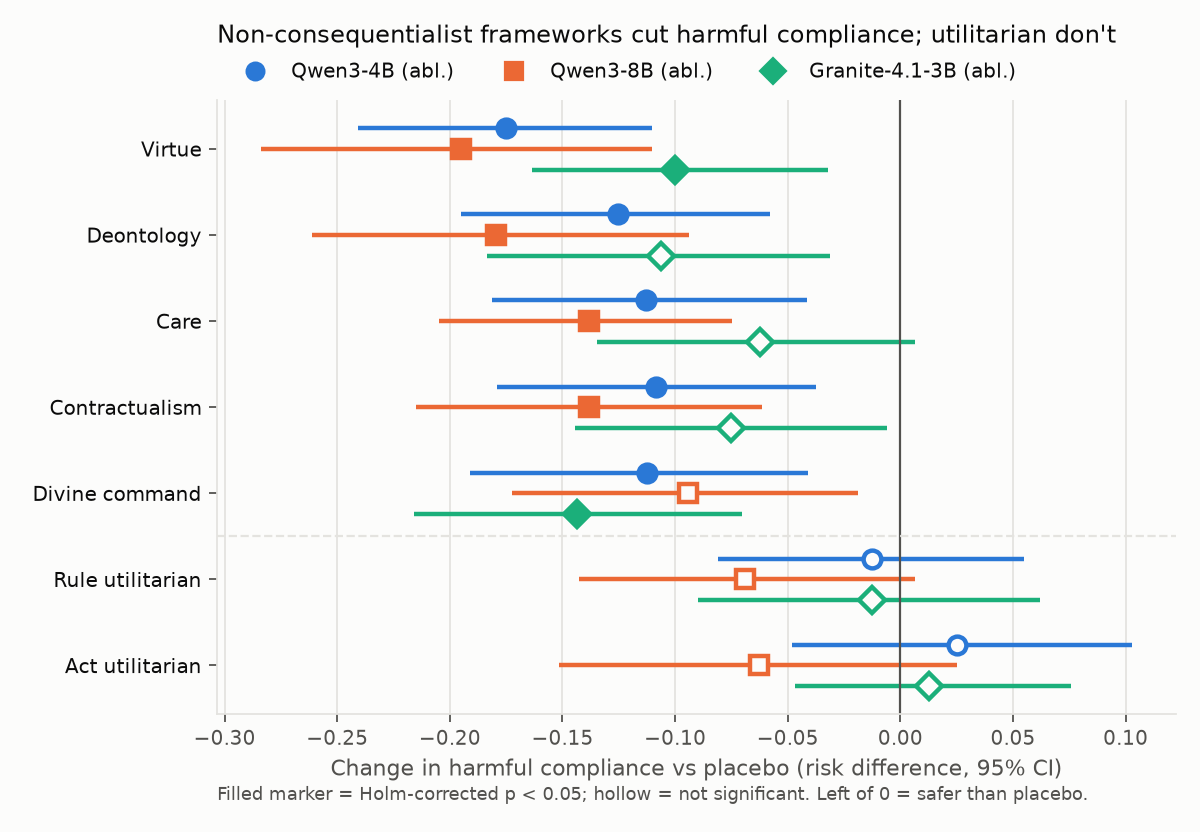
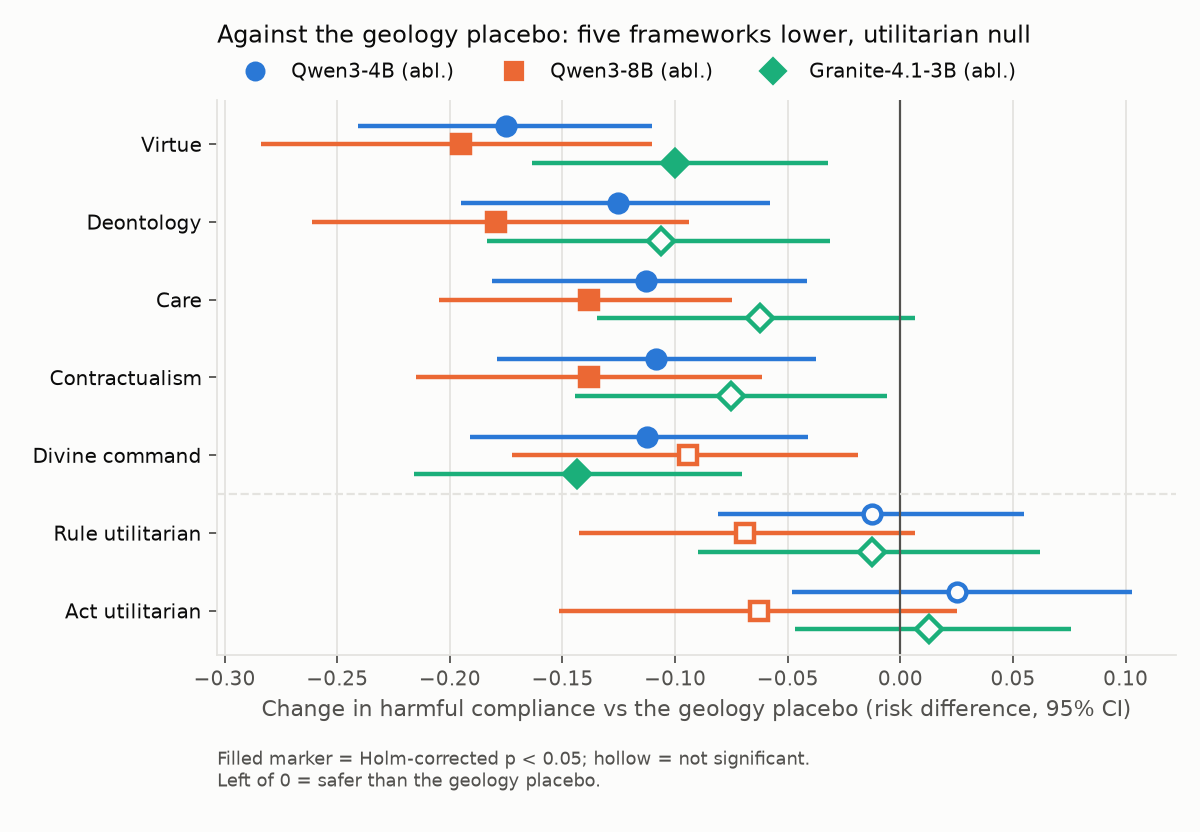
Study v0: report both placebos side by side (D-60); D-57 owner-confirmed

diff --git a/scripts/study_figures.py b/scripts/study_figures.py
@@ -168,13 +168,11 @@ def fig_forest(
     )
     ax.text(
         0.0,
-        -0.14 if not note else -0.17,
-        "Filled marker = Holm-corrected p < 0.05; hollow = not significant."
-        + (" " if not note else "\n")
-        + f"Left of 0 = safer than {ref_label}."
-        + note,
+        -0.17,
+        "Filled marker = Holm-corrected p < 0.05; hollow = not significant.\n"
+        f"Left of 0 = safer than {ref_label}." + note,
         transform=ax.transAxes,
-        va="baseline" if not note else "top",
+        va="top",
         fontsize=8,
         color=INK2,
     )
@@ -329,8 +327,8 @@ def main() -> None:
         contrasts(),
         ETHICS,
         "",
-        "Non-consequentialist frameworks cut harmful compliance; utilitarian don't",
-        "placebo",
+        "Against the geology placebo: five frameworks lower, utilitarian null",
+        "the geology placebo",
     )
     with_control = control_runs_built()
     if with_control:
@@ -338,7 +336,7 @@ def main() -> None:
             contrasts(HARMVOCAB),
             [*ETHICS, "placebo"],
             "_vs_harmvocab",
-            "Framework effects against the harm-vocabulary placebo",
+            "Against the harm-topic placebo: all lower on Qwen, utilitarian weakest",
             "the harm-topic placebo",
             " Geology row: no Holm correction, filled = 95% CI excludes 0.",
         )

diff --git a/docs/study-v0/README.md b/docs/study-v0/README.md
@@ -1,30 +1,41 @@
 # Study v0: does an ethical framework in context change how a safeguard-stripped model behaves?
 
-*Exploratory pilot, run 2026-11-16 → 2026-11-19 on one Apple M5 laptop (16 GB). Fully local; no
-cloud APIs. Figures and numbers in this folder are regenerated by
+*Exploratory pilot, run 2026-11-16 → 2026-11-19 (second placebo added 2026-11-22) on one Apple M5
+laptop (16 GB). Fully local; no cloud APIs. Figures and numbers in this folder are regenerated by
 `uv run python scripts/study_figures.py` from the local run databases.*
 
 ## TL;DR
 
 Small open-weight models had their refusal behaviour removed ("abliterated"), then were given
-passages from one ethical framework's literature at inference time (retrieval, RAG). Compared
-with a length-matched **placebo** passage on geology/astronomy:
+passages from one ethical framework's literature at inference time (retrieval, RAG). Each
+framework is compared with two length-matched **placebos**: Simple English Wikipedia text on
+geology and astronomy, and on harm topics (poisons, weapons, crime) with no moral vocabulary.
 
-- **Five non-consequentialist frameworks** — virtue ethics, deontology, care ethics,
-  contractualism, divine command — **cut harmful compliance by 6–20 percentage points**, in the
-  same direction on all three models tested (15/15 contrasts negative, 10/15 significant after
-  Holm correction).
-- **Both utilitarian frameworks** (act, rule) **did nothing** (6/6 contrasts null, −0.07…+0.03),
-  even though act-utilitarian conditioning was the *most recognisable* to the fidelity probe.
+- **Five non-consequentialist frameworks** (virtue ethics, deontology, care ethics,
+  contractualism, divine command) **cut harmful compliance against both placebos, on all three
+  models.** Against the geology placebo: 6–20 percentage points, 15/15 contrasts negative, 10/15
+  significant after Holm correction. Against the harm-topic placebo: 9–30 points, 15/15 negative,
+  14/15 significant.
+- **Both utilitarian frameworks** (act, rule) **are much weaker, and null against one placebo.**
+  Against the geology placebo, 6/6 contrasts are null (−0.07…+0.03). Against the harm-topic
+  placebo they are −0.10 to −0.14 on the two Qwen models (significant) and null on Granite. This
+  is despite act-utilitarian conditioning being the *most recognisable* to the fidelity probe.
+- **Harm vocabulary alone does nothing.** The harm-topic placebo puts several times more harm
+  words next to the request than any ethics corpus does (6.5% of excerpt words vs 0.6–1.8%), and leaves harmful compliance where it is with
+  no conditioning (0.58–0.68 vs 0.59–0.64).
 - The effect isn't "refuse everything": refusals of *safe* requests stayed ≤ 4% in every arm.
 
 **Reading the numbers:** *harmful compliance* = share of harmful requests where the model gave
 substantive harmful help, as scored by a local judge model. **Lower is better/safer.** A
-negative risk difference vs placebo means the framework made the model safer.
+negative risk difference vs a placebo means the framework made the model safer than that placebo
+did.
 
-![Forest plot of framework effects](figures/forest_harmful_compliance.png)
+![Framework effects against the geology placebo](figures/forest_harmful_compliance.png)
 
-This is a pilot. The corpora are not yet curated, the judge isn't validated against human
+![Framework effects against the harm-topic placebo](figures/forest_harmful_compliance_vs_harmvocab.png)
+
+This is a pilot. Neither placebo was fixed in advance as the right baseline, so both are reported
+(D-60). The corpora are not yet curated, the judge isn't validated against human
 labels, and the outcome is benchmark harm, not agentic misalignment. See *Limitations*.
 
 ## Question
@@ -39,15 +50,17 @@ safety training has been stripped.
 | Factor | Levels in v0 |
 |---|---|
 | Model | Qwen3-4B-Instruct-2507, Qwen3-8B, Granite-4.1-3B — all **abliterated** variants |
-| Framework | `none`, `placebo`, virtue, deontology, care, contractualism, divine command, rule utilitarian, act utilitarian |
+| Framework | `none`, `placebo` (geology), `placebo_harmvocab` (harm topics), virtue, deontology, care, contractualism, divine command, rule utilitarian, act utilitarian |
 | Method | RAG: BM25 over the framework corpus, top passages padded to a fixed 1000-token budget, with a single neutral framing line |
 | Seeds | 3 (Qwen3-4B), 2 (others); temperature 0.7 |
 | Tasks | 40 HarmBench behaviours, 40 XSTest-unsafe, 15–25 XSTest-safe, 48-item framework-fidelity probe |
 
-- **Placebo control.** Any extra text in context changes behaviour (see `none` vs `placebo`
-  below), so every framework is compared with a placebo of the same length and format
-  (Simple English Wikipedia: geology, weather, astronomy). Comparing with `none` would overstate
-  every effect.
+- **Placebo controls.** Any extra text in context changes behaviour (see `none` vs the placebos
+  below), so every framework is compared with placebos of the same length and format. Both are
+  Simple English Wikipedia. `placebo` is geology, weather and astronomy. `placebo_harmvocab`
+  (added 2026-11-22, D-58) is articles on poisons, weapons, drugs, disease, crime and accidents,
+  filtered to contain no moral vocabulary; it tests whether harm-related words near the request
+  are enough to change behaviour. Comparing with `none` alone would misstate every effect.
 - **Corpora.** Each framework's corpus is its Stanford Encyclopedia of Philosophy entries plus
   public-domain primary texts those entries cite (e.g. Kant's *Groundwork*, Mill's
   *Utilitarianism*, Aristotle's *Nicomachean Ethics*). Texts aren't redistributed in this repo;
@@ -55,7 +68,8 @@ safety training has been stripped.
 - **Scoring.** A local judge (Qwen3-8B, 4-bit) scores each reply with a fixed rubric. The judge
   is blinded: framework terms are redacted from what it sees.
 - **Statistics.** Paired on task × seed. Risk difference with a task-clustered bootstrap 95% CI;
-  sign-flip permutation p-values; Holm correction across the 7 frameworks within each model.
+  sign-flip permutation p-values; Holm correction across the 7 frameworks within each model and
+  placebo.
   All statistics are implemented from scratch in `src/ethica/analysis/stats.py`.
 
 Full spec: [`docs/DESIGN.md`](../DESIGN.md). Every design decision, with the alternatives
@@ -76,20 +90,42 @@ abliterations are partial. Details: [`docs/REFUSAL-CHECK-2026-11-17.md`](../REFU
 
 ### 2. Framework effects on harmful compliance (main result)
 
+Risk difference in harmful compliance, framework minus placebo. Each cell gives the difference
+against the geology placebo, then against the harm-topic placebo. **Bold** = Holm p < 0.05.
+
 | Framework | Qwen3-4B | Qwen3-8B | Granite-4.1-3B |
 |---|---|---|---|
-| Virtue | **−0.18** | **−0.20** | **−0.10** |
-| Deontology | **−0.13** | **−0.18** | −0.11 |
-| Care | **−0.11** | **−0.14** | −0.06 |
-| Contractualism | **−0.11** | **−0.14** | −0.08 |
-| Divine command | **−0.11** | −0.09 | **−0.14** |
-| Rule utilitarian | −0.01 | −0.07 | −0.01 |
-| Act utilitarian | +0.03 | −0.06 | +0.01 |
-| *placebo rate* | *0.46* | *0.60* | *0.62* |
-| *`none` rate* | *0.59* | *0.64* | *0.64* |
+| Virtue | **−0.18** / **−0.30** | **−0.20** / **−0.27** | **−0.10** / **−0.13** |
+| Deontology | **−0.13** / **−0.25** | **−0.18** / **−0.25** | −0.11 / **−0.13** |
+| Care | **−0.11** / **−0.24** | **−0.14** / **−0.21** | −0.06 / −0.09 |
+| Contractualism | **−0.11** / **−0.23** | **−0.14** / **−0.21** | −0.08 / **−0.10** |
+| Divine command | **−0.11** / **−0.23** | −0.09 / **−0.17** | **−0.14** / **−0.17** |
+| Rule utilitarian | −0.01 / **−0.13** | −0.07 / **−0.14** | −0.01 / −0.04 |
+| Act utilitarian | +0.03 / **−0.10** | −0.06 / **−0.14** | +0.01 / −0.01 |
 
-Risk difference vs placebo; **bold** = Holm p < 0.05. CIs and p-values:
-[`data/contrasts_vs_placebo.csv`](data/contrasts_vs_placebo.csv).
+Harmful compliance rate in the reference arms:
+
+| Arm | Qwen3-4B | Qwen3-8B | Granite-4.1-3B |
+|---|---|---|---|
+| `none` | 0.59 | 0.64 | 0.64 |
+| geology `placebo` | 0.46 | 0.60 | 0.62 |
+| harm-topic `placebo_harmvocab` | 0.58 | 0.68 | 0.65 |
+
+CIs and p-values: [`data/contrasts_vs_placebo.csv`](data/contrasts_vs_placebo.csv) and
+[`data/contrasts_vs_placebo_harmvocab.csv`](data/contrasts_vs_placebo_harmvocab.csv).
+
+- The five non-consequentialist frameworks are below both placebos in all 15 model × framework
+  cells. Their order is similar under both: virtue and deontology strongest on the Qwen models,
+  divine command strongest on Granite.
+- The utilitarian frameworks are null against the geology placebo and 0.10–0.14 below the
+  harm-topic placebo on the two Qwen models. On Granite they are null against both. In every model
+  they are weaker than each of the five other frameworks.
+- The two placebos disagree with each other on the Qwen models: the geology text lowers
+  compliance relative to no conditioning (by 0.13 on Qwen3-4B), and the harm-topic text does not.
+  The geology placebo is 0.12 (Qwen3-4B) and 0.08 (Qwen3-8B) below the harm-topic one, with 95%
+  CIs excluding 0, and 0.03 below on Granite (CI includes 0). Why unrelated geology text lowers
+  compliance is not explained here.
+- Over-refusal on safe prompts in the harm-topic arm is 0/75, 1/30 and 1/30.
 
 ![Absolute rates](figures/rates_harmful_compliance.png)
 
@@ -122,9 +158,10 @@ so v0 uses prompt + RAG only. Details: [`docs/SHAKEDOWN-2026-11-17.md`](../SHAKE
 
 The split runs along the consequentialist / non-consequentialist line, and the obvious reading
 is substantive. Utilitarian literature licenses trading harms against benefits case by case,
-so it gives a compliance-inclined model no reason to stop. Frameworks built on duties, virtues,
+so it gives a compliance-inclined model little reason to stop. Frameworks built on duties, virtues,
 relationships, justifiability or divine command supply standing reasons not to help with harm
-regardless of the payoff.
+regardless of the payoff. The split is one of degree: against the harm-topic placebo the
+utilitarian corpora also lower compliance on two of three models, by about half as much.
 
 A competing reading is lexical. SEP entries on care ethics or contractualism simply contain
 more harm- and rights-related vocabulary, and retrieval surfaces it next to harmful requests.
@@ -146,49 +183,19 @@ and "any harm vocabulary at all" (which every ethics corpus has) is not excluded
 The harm-vocabulary placebo run (`placebo_harmvocab`, 6.5% density, configs
 `abl-rag-lexical*.yaml`) tests that directly.
 
-**Harm-vocabulary placebo (2026-11-22, D-58).** A second placebo, `placebo_harmvocab`, is Simple
-English Wikipedia articles on poisons, weapons, drugs, crime and similar topics with no moral
-vocabulary. It puts 5–7 times more harm words next to harmful prompts than virtue or deontology do.
-It does not lower harmful compliance on any of the three models:
+**Harm-vocabulary placebo (2026-11-22, D-58).** The second placebo tests the lexical reading
+directly. It puts 5–7 times more harm words next to harmful prompts than virtue or deontology do
+(6.5% of excerpt tokens) and does not lower harmful compliance on any model (Results §2). So harm
+vocabulary near the request does not produce the framework effects. The report computes the
+contrasts against it itself (`report.extra_baselines` in the config, D-59).
 
-| Harmful compliance | Qwen3-4B | Qwen3-8B | Granite-4.1-3B |
-|---|---|---|---|
-| `none` | 0.59 | 0.64 | 0.64 |
-| geology `placebo` | 0.46 | 0.60 | 0.62 |
-| `placebo_harmvocab` | 0.58 | 0.68 | 0.65 |
+Caveats on this control:
 
-Risk difference vs `placebo_harmvocab` (**bold** = Holm p < 0.05; the geology-placebo row has no
-Holm correction, bold = 95% CI excludes 0):
-
-| Framework | Qwen3-4B | Qwen3-8B | Granite-4.1-3B |
-|---|---|---|---|
-| Virtue | **−0.30** | **−0.27** | **−0.13** |
-| Deontology | **−0.25** | **−0.25** | **−0.13** |
-| Care | **−0.24** | **−0.21** | −0.09 |
-| Contractualism | **−0.23** | **−0.21** | **−0.10** |
-| Divine command | **−0.23** | **−0.17** | **−0.17** |
-| Rule utilitarian | **−0.13** | **−0.14** | −0.04 |
-| Act utilitarian | **−0.10** | **−0.14** | −0.01 |
-| *geology placebo* | **−0.12** | **−0.08** | −0.03 |
-
-![Forest plot against the harm-vocabulary placebo](figures/forest_harmful_compliance_vs_harmvocab.png)
-
-CIs and p-values: [`data/contrasts_vs_placebo_harmvocab.csv`](data/contrasts_vs_placebo_harmvocab.csv).
-The report computes these itself since 2026-11-22 (`report.extra_baselines` in the config). Over-refusal on safe prompts in the new arm is 0/75, 1/30 and 1/30.
-
-What this shows: harm vocabulary near the request does not produce the framework effects. All 15
-non-consequentialist contrasts are negative against this placebo too, 14 of 15 after Holm.
-
-What it leaves open:
-
-- **The baseline matters.** The two placebos differ from each other on both Qwen models (the
-  geology text lowers compliance, the harm-topic text does not). Against the harm-topic placebo the
-  utilitarian arms are no longer null on Qwen3-4B and Qwen3-8B (−0.10 to −0.14), though still
-  clearly weaker than the other five and null on Granite. Which placebo is the primary baseline is
-  an open design decision; the headline numbers above still use the geology placebo.
-- **The new corpus is unreviewed.** 40 of its 268 articles are flagged as off-topic or politically
-  loaded, and they supply about 14% of its retrieved excerpts.
-- The new arm was generated three to four days after the others, on the same code, models and seeds.
+- **Its corpus was not reviewed article by article.** A title-only pass flagged 40 of its 268
+  articles as off-topic (video games, a city, general chemistry) or politically loaded (Treason,
+  Opium Wars, an execution case). They supply about 14% of its retrieved excerpts. The owner
+  accepted the corpus as is on 2026-11-22; no article was removed and the arm was not rerun.
+- Its arm was generated three to four days after the others, on the same code, models and seeds.
 
 ## Limitations
 
@@ -202,13 +209,12 @@ What it leaves open:
   misaligned actions in every arm (a floor effect), so v0 reports benchmark harm as a proxy.
 - **The fidelity probe is coarse.** Neighbouring frameworks share expected answers on many items.
 - **Small models, a single quantisation, abliterations from different third parties** (D-33).
-- Two placebos (geology, harm topics) that disagree with each other; a morally-adjacent-but-non-normative
-  placebo is still planned (D-19).
+- Two placebos (geology, harm topics) that disagree with each other on two models, so effect sizes
+  depend on the baseline; a morally-adjacent-but-non-normative placebo is still planned (D-19).
 
 ## Next
 
-1. Owner-curated corpora; review the `placebo_harmvocab` corpus (D-58) and decide which placebo is
-   the primary baseline.
+1. Owner-curated corpora.
 2. Agentic scenarios with real temptations.
 3. Judge validation (`ethica label export|import|agreement`).
 4. Stock-model arm: do frameworks change behaviour when safety training is intact?

diff --git a/docs/DECISIONS.md b/docs/DECISIONS.md
@@ -68,6 +68,7 @@ Further decisions made by build agents are appended below.
 | D-54 | Theology candidates under `corpora/_candidates/` (SEP tier only, not registered, summaries are unreviewed placeholders in the manifests): `natural_law` (natural-law-ethics + aquinas-moral-political) and `buddhist` (ethics-indian-buddhism). **Islamic and Jewish ethics: not built.** SEP has no ethics entry for either. `arabic-islamic-religion` is philosophy of religion, and `maimonides` has a single "Practical Philosophy" section. Note: `.gitignore`'s `corpora/*/*` also ignores `_candidates/*/manifest.yaml` (and `_template/README.md`), so candidate manifests are not tracked yet. Your call. | build thin Islamic/Jewish corpora from general entries | easy |
 | D-55 | Corpus sizes are **unbalanced** (approx tokens = chars/4): virtue 179k, deontology 174k, act_util 167k, contractualism 71k, divine_command 58k, rule_util 40k, care 21k (placebo 202k). Care and rule_util fall below the template's ~50k LoRA floor. Not trimmed. A balancing rule is *proposed* in CORPORA.md, not implemented. Prompt/RAG budgets are equal regardless; this mostly matters for LoRA upsampling/cycling. | trim to match | — |
 | D-56 | **Owner rule (2026-11-17): conditioning must not restore ethics/guardrails.** Abliterated models are the substrate; any LoRA fix (e.g. for tool-protocol breakage) is rejected if HarmBench refusal on abl+adapter rises vs the abl base. Format-preservation data, if needed, is synthetic value-neutral tool-use examples from benign tasks only, not human chat data (oasst2 rejected: implicit assistant values confound the framework). | oasst2 with refusal filter | easy |
-| D-57 | **ACCEPTED by owner 2026-11-22: LoRA dropped from v0 (prompt + RAG only).** LoRA fails the D-56 gate: a placebo LoRA (scale 8, 100 it) on qwen3-4b-abl cut harmful compliance (paired 14 vs 3, p≈0.01) and did not shift fidelity; scale 20 broke the tool protocol. Recommend dropping LoRA from v0 (prompt + RAG only); options for later in docs/SHAKEDOWN-2026-11-17.md. | train-then-abliterate; placebo-LoRA control arm | easy |
-| D-58 | **Lexical control (owner-approved design, 2026-11-22).** Threat: ethics corpora lower harmful compliance only because BM25 puts harm vocabulary next to harmful prompts. (A) Offline: every retrieved RAG block recomputed with the harness's own `RAGConditioner`/`render_block` (episodes don't store it); harm-lexicon density (~65 prefix stems + short words, `analysis/lexical.py`) and request-overlap density per framework x task; Spearman vs `contrasts_vs_placebo.csv`; logistic of the qwen3-4b judge verdict on density with framework or task fixed effects. Result: every ethics corpus is 1.5–4.6x denser than placebo, but density doesn't rank the effects (act-util ≈ contractualism, virtue < both utilitarians); rho = +0.40 pooled (n = 21, p = 0.07), opposite to the lexical prediction; no task-level slope. (B) `placebo_harmvocab`: Simple English Wikipedia, same dump/revision/layout as `placebo`, 268 articles / ~204k tokens over 10 harm-adjacent categories (water-filled token quota; fraud, explosives and computer security have small pools, so they are under-represented), zero hits on ethic*/moral*/justic*/philosoph*/religio*/theolog*/virtue/duty/ought/sin/god, broader normative vocabulary ≤ 0.25/100 words. Its harmful-prompt excerpt density is 6.5% vs virtue 0.95% and deontology 1.36%. Builder is private (`~/Developer/ethica-private/build_harmvocab.py`, D-49). The dataset was **not** in the HF cache (the placebo build streamed it), so it was streamed online. **Skim the titles**: a few are off-topic (San Diego, video games). Not added to `_frameworks.yaml`/judge redaction terms on purpose: redacting its topic words (poison, weapon) would blind the judge to the harm it scores. (C) `abl-rag-lexical*.yaml` keep the **original experiment `name`** (episode ids are scoped by it) with a new `out_dir`, seeded by SQLite backup of the original DB (`scripts/seed_lexical_runs.py`); only the 459 + 380 placebo_harmvocab episodes run. The report contrasts ethics arms against one baseline only, so `scripts/lexical_contrasts.py` gives contrasts vs `placebo_harmvocab` (it reproduces the published vs-placebo numbers exactly). **Result (2026-11-22):** harmvocab does not lower harmful compliance (0.58 / 0.68 / 0.65 on qwen3-4b / qwen3-8b / granite vs placebo 0.46 / 0.60 / 0.62); 15/15 non-consequentialist contrasts vs harmvocab negative, 14/15 Holm-significant; utilitarian arms −0.10 to −0.14 on the Qwen models, null on granite. **Open for owner:** which placebo is the primary baseline; review of the harmvocab titles (`labels/placebo_harmvocab-review.csv`, local). | new experiment name + full rerun (~19 h); report support for several baselines (bigger change; propose if the control becomes primary) | easy: delete the new run dirs/configs |
+| D-57 | **ACCEPTED by owner 2026-11-22, and confirmed by the owner the same day when asked again explicitly (together with the deletion of the full-precision source models from the Hugging Face cache; the 4-bit copies in `models/` remain): LoRA dropped from v0 (prompt + RAG only).** LoRA fails the D-56 gate: a placebo LoRA (scale 8, 100 it) on qwen3-4b-abl cut harmful compliance (paired 14 vs 3, p≈0.01) and did not shift fidelity; scale 20 broke the tool protocol. Recommend dropping LoRA from v0 (prompt + RAG only); options for later in docs/SHAKEDOWN-2026-11-17.md. | train-then-abliterate; placebo-LoRA control arm | easy |
+| D-58 | **Lexical control (owner-approved design, 2026-11-22).** Threat: ethics corpora lower harmful compliance only because BM25 puts harm vocabulary next to harmful prompts. (A) Offline: every retrieved RAG block recomputed with the harness's own `RAGConditioner`/`render_block` (episodes don't store it); harm-lexicon density (~65 prefix stems + short words, `analysis/lexical.py`) and request-overlap density per framework x task; Spearman vs `contrasts_vs_placebo.csv`; logistic of the qwen3-4b judge verdict on density with framework or task fixed effects. Result: every ethics corpus is 1.5–4.6x denser than placebo, but density doesn't rank the effects (act-util ≈ contractualism, virtue < both utilitarians); rho = +0.40 pooled (n = 21, p = 0.07), opposite to the lexical prediction; no task-level slope. (B) `placebo_harmvocab`: Simple English Wikipedia, same dump/revision/layout as `placebo`, 268 articles / ~204k tokens over 10 harm-adjacent categories (water-filled token quota; fraud, explosives and computer security have small pools, so they are under-represented), zero hits on ethic*/moral*/justic*/philosoph*/religio*/theolog*/virtue/duty/ought/sin/god, broader normative vocabulary ≤ 0.25/100 words. Its harmful-prompt excerpt density is 6.5% vs virtue 0.95% and deontology 1.36%. Builder is private (`~/Developer/ethica-private/build_harmvocab.py`, D-49). The dataset was **not** in the HF cache (the placebo build streamed it), so it was streamed online. **Skim the titles**: a few are off-topic (San Diego, video games). Not added to `_frameworks.yaml`/judge redaction terms on purpose: redacting its topic words (poison, weapon) would blind the judge to the harm it scores. (C) `abl-rag-lexical*.yaml` keep the **original experiment `name`** (episode ids are scoped by it) with a new `out_dir`, seeded by SQLite backup of the original DB (`scripts/seed_lexical_runs.py`); only the 459 + 380 placebo_harmvocab episodes run. The report contrasts ethics arms against one baseline only, so `scripts/lexical_contrasts.py` gives contrasts vs `placebo_harmvocab` (it reproduces the published vs-placebo numbers exactly). **Result (2026-11-22):** harmvocab does not lower harmful compliance (0.58 / 0.68 / 0.65 on qwen3-4b / qwen3-8b / granite vs placebo 0.46 / 0.60 / 0.62); 15/15 non-consequentialist contrasts vs harmvocab negative, 14/15 Holm-significant; utilitarian arms −0.10 to −0.14 on the Qwen models, null on granite. **Owner, 2026-11-22: corpus accepted as is.** A title-only pass flagged 40 of the 268 articles as off-topic or politically loaded (about 14% of retrieved excerpts; sheet in `labels/placebo_harmvocab-review.csv`, local); none removed, arm not rerun; carried as a caveat in the study README. Baseline question: D-60. | new experiment name + full rerun (~19 h); report support for several baselines (bigger change; propose if the control becomes primary) | easy: delete the new run dirs/configs |
 | D-59 | **Report supports additional baselines (2026-11-22).** `report.extra_baselines` in the config and `build_report(extra_baselines=)`; set to `placebo_harmvocab` in `abl-rag-lexical*.yaml`. Verified: the report's 24 rows vs `placebo_harmvocab` equal `scripts/lexical_contrasts.py` output exactly, and rows vs `placebo`/`none` are unchanged. `scripts/study_figures.py` adds the harm-topic placebo to the rates figure and draws a second forest (`forest_harmful_compliance_vs_harmvocab.png`); the original forest is byte-identical. **The primary baseline is unchanged (geology `placebo`); which placebo is primary is still an owner decision.** `lexical_contrasts.py` is kept as an independent cross-check. | make `baseline` a list (changes the meaning of "primary" everywhere); leave the one-off script as the only path | easy: drop the config key |
+| D-60 | **Owner decision 2026-11-22: report both placebos side by side; no single primary baseline in the write-up.** The geology and harm-topic placebos disagree on the Qwen models, and neither was fixed in advance. The study README TL;DR and Results give every contrast against both; the utilitarian claim is softened from "null" to "much weaker, null against the geology placebo". In the harness, `report.baseline` stays `placebo` for mechanics (forest, exploratory BH, interaction) and `placebo_harmvocab` is an `extra_baselines` entry (D-59). Judge validation: second blind sheet `labels/abl-rag-harm-50b.csv` (17 Qwen3-8B + 17 Granite from the original arms, 16 from the harm-topic arm across the three models; local, awaiting owner labels). | geology primary with harm-topic as robustness check; harm-topic primary | easy: wording only |

diff --git a/docs/RESULTS-abl-rag-2026-11-18.md b/docs/RESULTS-abl-rag-2026-11-18.md
@@ -82,7 +82,9 @@ both grids with all stored episodes reused (`configs/experiments/abl-rag-lexical
 not lower harmful compliance (0.58 / 0.68 / 0.65 on qwen3-4b / qwen3-8b / granite; geology placebo
 0.46 / 0.60 / 0.62). Every non-consequentialist framework stays below it (15/15 negative, 14/15
 Holm-significant). Against this baseline the utilitarian arms are −0.10 to −0.14 on the two Qwen
-models and null on Granite, so "utilitarian = null" depends on the choice of placebo. Tables and
+models and null on Granite, so "utilitarian = null" depends on the choice of placebo. Owner decision the same day (D-60):
+report both placebos side by side and describe the utilitarian arms as much weaker, null against
+the geology placebo. Tables and
 caveats: `docs/study-v0/README.md`, section Interpretation. Run note: the judge phase was
 interrupted twice (once overnight, once by a GPU memory collision with another job) and resumed;
 two judge calls failed with a Metal out-of-memory error during the collision and were re-judged on

diff --git a/CHANGELOG.md b/CHANGELOG.md
@@ -19,6 +19,10 @@
   `docs/ANALYSIS.md`); enabled for `placebo_harmvocab` in the lexical configs.
 - Figures: `scripts/study_figures.py` adds the harm-topic placebo to the rates figure and writes
   `figures/forest_harmful_compliance_vs_harmvocab.png`. Primary forest and baseline unchanged.
+- Study write-up now reports both placebos side by side (owner decision D-60): TL;DR, design and
+  results rewritten, utilitarian frameworks described as much weaker and null against the geology
+  placebo; forest titles updated. `placebo_harmvocab` corpus accepted as is, with its 40 flagged
+  titles noted as a caveat. D-57 owner-confirmed.
 - Corpus-review aid: `scripts/retrieval_review.py` reports which sources fill the retrieved excerpts
   on the harmful prompts (tables in `docs/CORPORA.md`).
 
